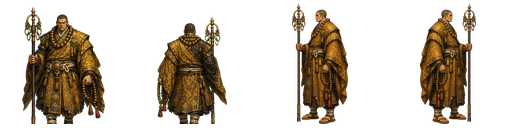
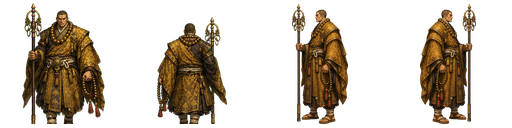
護法僧男性の正面身長を統一

Changed region(s): [[0.0312, 0.0312, 0.2188, 0.9375]]

diff --git a/play.html b/play.html
@@ -1623,7 +1623,7 @@ const meishokuReady=job=>MEISHOKU_READY.has(job);
 const meishokuLabel=e=>meishokuDef(e)?.name||'';
 const JUGONSHI_SPRITE_VERSION='20260723-jugon4';
 const KAGEHOSHI_SPRITE_VERSION='20260723-idle4';
-const GOHOUSOU_SPRITE_VERSION='20260723-idle3';
+const GOHOUSOU_SPRITE_VERSION='20260723-idle4';
 const playerSpriteAsset=e=>{
   const gender=e?.gender==='f'?'f':'m';
   const src=MEISHOKU_READY.has(e?.meishoku)
@@ -5940,10 +5940,11 @@ function drawPlayer(sx,sy,e){
     const fr=Math.floor((e.walkT||0)*2.6)%4;
     // 護法僧男の歩行素材は長い錫杖を128pxセルへ収めたぶん人物本体が小さい。
     // 足元を固定したまま方向別に補正し、停止姿勢と体格・顔の大きさを揃える。
-    const walkD=spriteId==='gohousou_m'
-      ?(e.dir==='down'?64:(e.dir==='left'||e.dir==='right'?60:D))
-      :D;
-    ctx.drawImage(walkS,fr*F,row*F,F,F,-walkD/2,-walkD+3,walkD,walkD);
+    const gohoMale=spriteId==='gohousou_m';
+    const sideWalk=gohoMale&&(e.dir==='left'||e.dir==='right');
+    const walkW=gohoMale&&e.dir==='down'?68:(sideWalk?60:D);
+    const walkH=gohoMale&&e.dir==='down'?59:(sideWalk?60:D);
+    ctx.drawImage(walkS,fr*F,row*F,F,F,-walkW/2,-walkH+3,walkW,walkH);
     if(!bundledWeapon)drawHeldWeapon(e,fr);
   }else{
     const swingMax=e.swingMax||0.25;

diff --git a/scripts/repair_gohousou_idle.py b/scripts/repair_gohousou_idle.py
@@ -15,6 +15,9 @@ CELL_SIZE = 128
 PADDING = 4
 VISIBLE_ALPHA = 8
 TOP_ARTIFACT_LIMIT = 20
+MALE_DOWN_LEG_CUT = 104
+MALE_DOWN_LEG_EXTENSION = 4
+GROUND_Y = 124
 
 
 def normalize_side_pose(source: Path) -> Image.Image:
@@ -108,6 +111,33 @@ def clear_rear_top_artifacts(sheet: Image.Image) -> None:
     sheet.paste(up, (CELL_SIZE, 0))
 
 
+def extend_male_down_legs(sheet: Image.Image) -> None:
+    down = sheet.crop((0, 0, CELL_SIZE, CELL_SIZE))
+    if alpha_bbox(down)[1] <= PADDING - 1:
+        return
+    extended = Image.new("RGBA", down.size, (0, 0, 0, 0))
+
+    # Move the torso upward while stretching only the lower robe/legs into the
+    # freed space.  The face and upper-body proportions remain unchanged.
+    upper = down.crop((0, MALE_DOWN_LEG_EXTENSION, CELL_SIZE, MALE_DOWN_LEG_CUT))
+    extended.alpha_composite(upper, (0, 0))
+    lower = down.crop((0, MALE_DOWN_LEG_CUT, CELL_SIZE, GROUND_Y))
+    lower = lower.resize(
+        (
+            CELL_SIZE,
+            GROUND_Y - MALE_DOWN_LEG_CUT + MALE_DOWN_LEG_EXTENSION,
+        ),
+        Image.Resampling.LANCZOS,
+    )
+    extended.alpha_composite(
+        lower,
+        (0, MALE_DOWN_LEG_CUT - MALE_DOWN_LEG_EXTENSION),
+    )
+    if alpha_bbox(extended)[3] != GROUND_Y:
+        raise ValueError("extended male down-idle pose is not grounded")
+    sheet.paste(extended, (0, 0))
+
+
 def validate_side_pose(cell: Image.Image, label: str) -> None:
     left, top, right, bottom = alpha_bbox(cell)
     if min(left, top) < PADDING or max(right, bottom) > CELL_SIZE - PADDING:
@@ -119,7 +149,10 @@ def validate_side_pose(cell: Image.Image, label: str) -> None:
 
 
 def rebuild(
-    base: Image.Image, side_source: Path, clean_rear_top: bool = False
+    base: Image.Image,
+    side_source: Path,
+    clean_rear_top: bool = False,
+    extend_male_down: bool = False,
 ) -> Image.Image:
     if base.size != (CELL_SIZE * 4, CELL_SIZE):
         raise ValueError("base idle sheet must be a normalized 4x1 grid")
@@ -135,9 +168,15 @@ def rebuild(
 
     if clean_rear_top:
         clear_rear_top_artifacts(sheet)
+    if extend_male_down:
+        extend_male_down_legs(sheet)
 
-    unchanged_columns = (0,) if clean_rear_top else (0, 1)
-    for column in unchanged_columns:
+    unchanged_columns = {0, 1}
+    if extend_male_down:
+        unchanged_columns.remove(0)
+    if clean_rear_top:
+        unchanged_columns.remove(1)
+    for column in sorted(unchanged_columns):
         box = (column * CELL_SIZE, 0, (column + 1) * CELL_SIZE, CELL_SIZE)
         if ImageChops.difference(base.crop(box), sheet.crop(box)).getbbox() is not None:
             raise ValueError("front/rear idle frames changed unexpectedly")
@@ -158,6 +197,11 @@ def main() -> None:
         action="store_true",
         help="remove detached fragments above the rear-facing idle pose",
     )
+    parser.add_argument(
+        "--extend-male-down",
+        action="store_true",
+        help="lengthen the male front-idle lower body by four source pixels",
+    )
     args = parser.parse_args()
 
     with Image.open(args.base_idle) as image:
@@ -165,6 +209,7 @@ def main() -> None:
             image.convert("RGBA"),
             args.side_source,
             clean_rear_top=args.clean_rear_top,
+            extend_male_down=args.extend_male_down,
         )
     args.out.parent.mkdir(parents=True, exist_ok=True)
     repaired.save(args.out, optimize=True)

diff --git a/docs/art-guide.md b/docs/art-guide.md
@@ -212,6 +212,8 @@ enmacho-online/
 頭・錫杖をセル内へ収め、人物と錫杖の接地を y=124 に統一する。
 上向き停止の頭上に生成時の離れた破片が残る場合は、同スクリプトへ
 `--clean-rear-top` を付け、本体最大成分を残したまま上端の離れた成分だけを除去する。
+男の正面停止は `--extend-male-down` で下衣・脚部だけを原寸4pxぶん伸ばし、
+顔と上半身の比率を保ったまま歩行への切り替え時の身長差を抑える。
 
 | ファイル | 内容 | 備考 |
 |---|---|---|
@@ -229,7 +231,9 @@ enmacho-online/
   正面/背面は左右の前脚を交互にし、錫杖・数珠は同じ手に固定。右向きは左向きの
   コマ単位反転、人物の足と錫杖先端を含む接地は全16コマともセル内y=124に統一している
 - 男の歩行素材は長い錫杖をセル内へ収めた影響で人物本体が停止絵より小さく見えるため、
-  `drawPlayer` で足元を固定したまま下向き64px・左右60pxへ拡大する。上向きと停止は56px。
+  `drawPlayer` で足元を固定したまま下向き68×59px・左右60×60pxへ補正する。
+  下向きは横幅と高さを別々に合わせ、肩幅・顔幅を保ちながら身長だけが伸びるのを防ぐ。
+  上向きと停止は56×56px。
 
 ### マップ画像素材(v0.5〜)
 